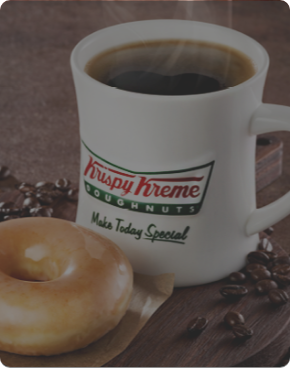
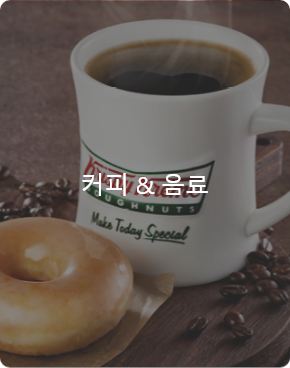
210107_09:08

Changed region(s): [[0.5586, 0.4484, 0.7138, 0.538], [0.2793, 0.4484, 0.4345, 0.538], [0.4655, 0.4783, 0.5276, 0.538]]

diff --git a/index.html b/index.html
@@ -18,6 +18,9 @@
 <script src="http://code.jquery.com/jquery-migrate-3.0.0.js"></script>
 <script src="./js/slick.js" type="text/javascript" charset="utf-8"></script>
 
+<script src="./js/popup.js" type="text/javascript"></script>
+<!--<script src="./js/navpop.js" type="text/javascript"></script>-->
+<!--<script src="./js/nav.js" type="text/javascript"></script>-->
 <script src="./js/slide.js" type="text/javascript"></script>
 
 
@@ -28,57 +31,50 @@
 <body >
 <div id="wrap">
 
-  <!--<div id="nav_pop" style="display: block;">
-    <div class="navpop_inner">
-      <div>
-        <h1 class="nav_logo"></h1>
-        <ul class="depth1">
-          <li>
-            <a href="#">MENU</a>
-            <ul class="depth2">
-              <li><a href="#">신메뉴</a></li>
-              <li><a href="#">베스트 메뉴</a></li>
-              <li><a href="#">도넛</a></li>
-              <li><a href="#">커피 & 음료</a></li>
-              <li><a href="#">아이스크림 & 프로즌</a></li>
-              <li><a href="#">시즌한정 메뉴</a></li>
-            </ul>
-          </li>
+  <div id="popup">
+    <button><img src="images/mini_close.png" alt="닫기 버튼"></button>
+    <p><img src="" alt="안내팝업"></p>
+  </div>
 
-          <li>
-            <a href="#">STORE</a>
-            <ul class="depth2">
+  <div id="nav_pop">
+    <div class="navpop_inner">
+      <ul class="depth1" >
+        <li class="nav_menu"><a href="#">MENU</a>
+              <ul class="depth2">
+               <li><a href="#">신메뉴</a></li>
+               <li><a href="#">베스트 메뉴</a></li>
+               <li><a href="#">도넛</a></li>
+               <li><a href="#">커피 & 음료</a></li>
+               <li><a href="#">아이스크림 & 프로즌</a></li>
+               <li><a href="#">시즌한정 메뉴</a></li>
+            </ul>
+        </li>
+        <li><a href="#">STORE</a>
+             <ul class="depth2">
               <li><a href="#">매장찾기</a></li>
               <li><a href="#">가맹문의</a></li>
-            </ul>
-          </li>
-
-          <li>
-            <a href="#">HOME SERVICE</a>
-            <ul class="depth2">
+           </ul>
+       </li>
+       <li><a href="#">HOME SERVICE</a>
+             <ul class="depth2">
               <li><a href="#">홈서비스 이용하기</a></li>
-            </ul>
-          </li>
-
-          <li>
-            <a href="#">EVENT</a>
-            <ul class="depth2">
-              <li><a href="#">이벤트/당첨자 발표</a></li>
+           </ul>
+       </li>
+       <li><a href="#">EVENT</a>
+             <ul class="depth2">
+              <li><a href="#">이벤트 & 당첨자 발표</a></li>
               <li><a href="#">제휴 서비스</a></li>
-            </ul>
-          </li>
-
-          <li>
-            <a href="#">BRAND</a>
-            <ul class="depth2">
+           </ul>
+       </li>
+       <li><a href="#">BRAND</a>
+             <ul class="depth2">
               <li><a href="#">브랜드 스토리</a></li>
               <li><a href="#">공지사항</a></li>
-            </ul>
-          </li>
-        </ul>
-      </div>
-    </div>
-  </div>-->
+           </ul>
+       </li>
+  </ul>   
+  </div>
+  </div>
 
   <header id="header">
   
@@ -87,7 +83,14 @@
         <li class="burger_button"><p class="bar1"></p> <p class="bar2"></p></li>
         <li><a href="#">Log In</a></li>
         <li><a href="#">Join</a></li>
-        <li><a href="#">language</a></li>
+        <li class="language"><a href="#">language</a>
+            <ul class="select">
+              <li><a href="#">KOREAN</a></li>
+              <li><a href="#">ENGLISH</a></li>
+              <li><a href="#">CHINESE</a></li>
+              <li><a href="#">JAPANESE</a></li>
+            </ul>
+        </li>
       </ul>
     </nav>
 
@@ -127,19 +130,19 @@
 
         <ul class="menu_img">
           <li><a href="#"><img src="images/menu1.png" alt="도넛">
-            <img src="images/menuhover1.png" alt="" class="m_hover">
+            <img src="images/menuhover1.png" alt="도넛" class="m_hover">
             <span class="menu_txt">도넛</span></a></li>
 
           <li><a href="#"><img src="images/menu2.png" alt="커피 & 음료">
-            <img src="images/menuhover2.png" alt="" class="m_hover">
+            <img src="images/menuhover2.png" alt="커피 & 음료" class="m_hover">
             <span class="menu_txt">커피 & 음료</span></a></li>
 
           <li><a href="#"><img src="images/menu3.png" alt="아이스크림 & 프로즌">
-            <img src="images/menuhover3.png" alt="" class="m_hover">
+            <img src="images/menuhover3.png" alt="아이스크림 & 프로즌" class="m_hover">
             <span class="menu_txt">아이스크림 & 프로즌</span></a></li>
 
           <li><a href="#"><img src="images/menu4.png" alt="시즌한정 메뉴">
-            <img src="images/menuhover4.png" alt="" class="m_hover">
+            <img src="images/menuhover4.png" alt="시즌한정 메뉴" class="m_hover">
             <span class="menu_txt">시즌한정 메뉴</span></a></li>
         </ul>
 

diff --git a/css/common.css b/css/common.css
@@ -36,30 +36,56 @@ button{outline:0; border:none;}
 .bg4{background:url(../images/back4.png) no-repeat center;height:1080px; width:100%;}
 .bg5{background:url(../images/back5.png) no-repeat center;height:305px; width:100%;}
 
+#popup{text-align:center;
+       background-color: #FF9595; width:500px;
+       position:absolute; top:300px; left:700px;
+       z-index:99999999;
+      /*display:none;*/}
+#popup button{background: none; cursor: pointer; margin-left:440px; margin-top:20px;}
+#popup p{margin-bottom:50px; color:#333;}
 
 /****네비영역****/
+#nav{width:100%; height:100px;
+   position: fixed; top:0px; left:0px; z-index:99999999;
+   transition:0.5s;}
 
-#nav{background-color: rgba(255,255,255,0.8);
-     width:100%; height:150px; transition:0.5s;
-     position:fixed; z-index:99999999;}
-
-
-#header .list{position: fixed; top:55px; left:30px; z-index:99999999;}
-#header .list li{float:left; padding-right:30px;}
-#header .list .burger_button{margin-right:100px; margin-left:35px;
-                            padding-top:6px; cursor: pointer;}
+#header .list{padding-top:35px;}
+#header .list li{float:left; padding-right:30px; font-size:1.125rem;}
+#header .list .burger_button{margin-right:50px; margin-left:35px;
+                            padding-top:10px; cursor: pointer;}
 #header .list .bar1{width:30px; height:2px; background-color: #222;}
 #header .list .bar2{width:20px; height:2px; background-color: #222;
                    margin-top:4px;}
 
+#header #nav .select{margin-top:10px; /*display:none;*/}
+#header #nav .select > li{float:none; font-size:0.875rem;
+                          text-align: center; line-height: 1.7rem;}
+
+/*네비상태 on 일때 디자인*/
+#header .list .bar1 .on{transform:rotate(45deg); top:15px;}
+#header .list .bar2 .on{width:30px; transform:rotate(-45deg);}
+
+
 #nav_pop{position:fixed;
-        width:100%; min-width:1280px; height:100%;
+        width:100%; min-width:1024px; height:100%;
         overflow:auto;
         background-color: thistle;
-        z-index:999999999px;
-        /*display:none;*/}
-#nav_pop .navpop_inner{width:1280px; margin:0 auto;}
-#nav_pop .depth1 > li{width:50%; float:left;}
+        z-index:999999999;
+        display:none;}
+#nav_pop .navpop_inner{width:1280px; min-width:1024px; margin:0 auto;}
+#nav_pop .depth1{}
+#nav_pop .depth1 > li{width:calc((100% - 5px) / 2); float:left; margin-bottom:100px;
+                      color:#fff; font-weight:bold; text-align: center;
+                      margin-top:0;}
+#nav_pop .depth1 > li:last-child{margin-right:0;}
+#nav_pop .depth1 .nav_menu{margin-bottom:0;}
+#nav_pop .depth1 > li > a {font-size:5rem; margin-bottom:20px;
+                           display: inline;}
+#nav_pop .depth2{font-size:1.2rem;
+                line-height: 3rem;
+                font-weight: normal;
+                 color:#fff;}
+#nav_pop .depth2 > li > a{}
 
 
 /*********************footer****************************/
@@ -74,12 +100,9 @@ button{outline:0; border:none;}
 
 
 /*
-
-네비 부분 스크롤 했을 때 나타나고 사라지는 제이쿼리 넣기 예제4 네비게이션
+공지팝업 수정
+네비 부분 스크롤했을때 배경 나오고 사라지는 거 제이쿼리 수정
 사이트맵(네비 눌렀을 때 나오는 거) 제이쿼리까지 넣기 스타피부과 html 가져오기
-언어선택
-메뉴부분 글자 앱솔루트로 넣어야함
-반응형 사이즈 설정하기
-더보기 부분 제이쿼리 예제1번 롤오버 참고해서 넣기
-
+애니메이션 키프레임 이용해서 메인화면에 도넛 살짝씩 움직이게 하기
+언어선택 부분 국민은행 시안처럼 하기
 */

diff --git a/js/nav.js b/js/nav.js
@@ -1,0 +1,20 @@
+$(function(){
+  $('#nav .language').each(function(){
+    var subMenu = $(this).find('.select')
+     $(this).hover(function(){
+       subMenu.stop().slideDown() }, function(){
+       subMenu.stop().slideUp() }) //hover
+  })//each
+
+  $(window).scroll(function(){
+    if ($(document).scrollTop() >= 300 && $(document).scrollTop() < 500 ) {
+      $('#nav').css({background:'rgba(255,255,255,0.8)'});
+      // $('header').addClass('active');
+      //글자색
+    }else {
+      $('header').css({background:'rgba(255,255,255,0)'})
+     // $('header').removeClass('active');
+    }
+ })
+
+})//jq end

diff --git a/css/style.css b/css/style.css
@@ -1,4 +1,4 @@
-.inner{width:1280px; margin:0 auto;}
+.inner{width:1280px; min-width:1024px; margin:0 auto;}
 
 #wrap{}
 #header{}
@@ -38,7 +38,7 @@
 #sec2 .menu .menu_img > li:last-child{margin-right:0px;}
 #sec2 .menu .menu_img .m_hover{position:absolute; top:0;
                                opacity:0; transition:0.5s;}
-#sec2 .menu .menu_img .menu_txt{color:blue; font-size:1.312rem; text-align: center;}
+#sec2 .menu .menu_img .menu_txt{color:#fff;}
 
 
 

diff --git a/js/navpop.js b/js/navpop.js
@@ -1,0 +1,12 @@
+$(function(){
+     $(function(){
+      $('.burger_button').click(function(){
+        $('#nav_pop').fadeIn();
+        });
+
+// 버거버튼 누르면 닫히는 설정
+      $('.nav_close').click(function(){
+          $('#nav_pop').fadeOut();
+          });
+      })
+})

diff --git a/js/popup.js b/js/popup.js
@@ -1,0 +1,5 @@
+$(function(){
+    $('#popup button').click(function(){
+        $('#popup').fadeOut();
+      });
+})
